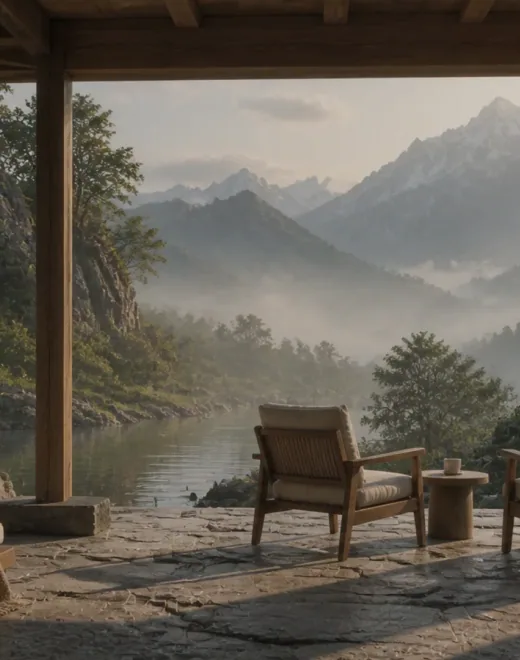
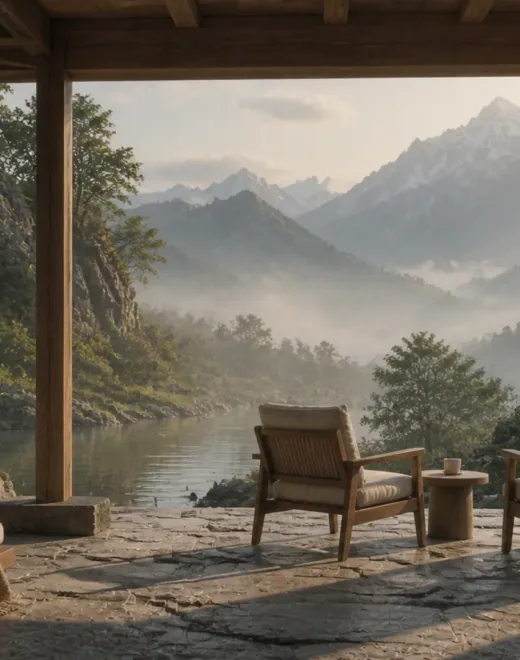
style(atendimentos): take the writing off the window panes
As vidraças voltam a ser imagem. O nome de cada porta passa para o
`aria-label` do link: sem ele o leitor de tela anunciaria quatro links vazios,
porque a imagem é decorativa e não tem mais texto para emprestar. O degradê e
o número que existiam só para sustentar o rótulo saíram junto.

O escurecimento também perdeu a razão de ser. Ele estava lá para o texto
sobreviver por cima da parte clara da paisagem — sem texto, só apagaria a
vista. De .82/.86 passa a .94/.96: toque leve, o suficiente para as quatro
lerem como uma janela só e não como quatro fotografias de origens diferentes.
Os quatro arquivos sobem de 97,2 KB para 107,5 KB, e os tetos do orçamento
acompanham.

Com isso, quem enxerga deixa de saber para onde cada vidraça leva antes de
clicar — é o custo da decisão, e ele é do cliente.

diff --git a/outputs/atendimentos.html b/outputs/atendimentos.html
@@ -26,46 +26,32 @@
 
          A janela fica à ESQUERDA e o texto à direita, como na segunda
          referência: a imagem entra primeiro no olho e o título responde a ela.
-         Na ordem do documento a janela também vem primeiro, então quem navega
-         por teclado ou leitor de tela encontra as portas antes da explicação —
-         que é a mesma ordem que o olho segue. -->
+
+         As vidraças não trazem rótulo escrito — a janela é imagem. O nome de
+         cada porta vive no `aria-label` do link: sem ele o leitor de tela
+         anunciaria quatro links vazios, já que a imagem é decorativa e não tem
+         mais texto para emprestar. -->
     <section class="atend-janela" aria-labelledby="atend-titulo">
       <div class="atend-moldura">
         <ul class="atend-vidracas">
           <li class="atend-vidraca">
-            <a href="#primeira-visita">
+            <a href="#primeira-visita" aria-label="É minha primeira visita">
               <img src="media/atendimentos-vidraca-1.webp" alt="" width="520" height="340" decoding="async">
-              <span class="atend-vidraca-texto">
-                <span class="atend-vidraca-num" aria-hidden="true">01</span>
-                É minha primeira visita
-              </span>
             </a>
           </li>
           <li class="atend-vidraca">
-            <a href="#oraculos">
+            <a href="#oraculos" aria-label="Procuro um oráculo">
               <img src="media/atendimentos-vidraca-2.webp" alt="" width="520" height="340" decoding="async">
-              <span class="atend-vidraca-texto">
-                <span class="atend-vidraca-num" aria-hidden="true">02</span>
-                Procuro um oráculo
-              </span>
             </a>
           </li>
           <li class="atend-vidraca">
-            <a href="#online">
+            <a href="#online" aria-label="Quero atendimento online">
               <img src="media/atendimentos-vidraca-3.webp" alt="" width="520" height="660" fetchpriority="high" decoding="async">
-              <span class="atend-vidraca-texto">
-                <span class="atend-vidraca-num" aria-hidden="true">03</span>
-                Quero atendimento online
-              </span>
             </a>
           </li>
           <li class="atend-vidraca">
-            <a href="#caminhos">
+            <a href="#caminhos" aria-label="Não sei qual técnica escolher">
               <img src="media/atendimentos-vidraca-4.webp" alt="" width="520" height="660" fetchpriority="high" decoding="async">
-              <span class="atend-vidraca-texto">
-                <span class="atend-vidraca-num" aria-hidden="true">04</span>
-                Não sei qual técnica escolher
-              </span>
             </a>
           </li>
         </ul>

diff --git a/outputs/css/atendimentos.css b/outputs/css/atendimentos.css
@@ -98,26 +98,7 @@
 .atend-vidraca a { aspect-ratio: 520 / 660; }
 .atend-vidraca:nth-child(-n + 2) a { aspect-ratio: 520 / 340; }
 
-.atend-vidraca-texto {
-  position: absolute;
-  right: 0;
-  bottom: 0;
-  left: 0;
-  display: grid;
-  gap: 4px;
-  padding: clamp(14px, 2vw, 22px);
-  /* O degradê nasce do pé da vidraça e não cobre a imagem inteira: é o que
-     mantém a vista visível e o rótulo legível ao mesmo tempo. */
-  background: linear-gradient(to top, rgba(28, 20, 14, .82), rgba(28, 20, 14, .38) 52%, transparent);
-  font-size: clamp(.92rem, 1.4vw, 1.05rem);
-  line-height: 1.3;
-}
 
-.atend-vidraca-num {
-  color: var(--gold);
-  font-size: .68rem;
-  letter-spacing: .22em;
-}
 
 .atend-vidraca a:hover img,
 .atend-vidraca a:focus-visible img {
